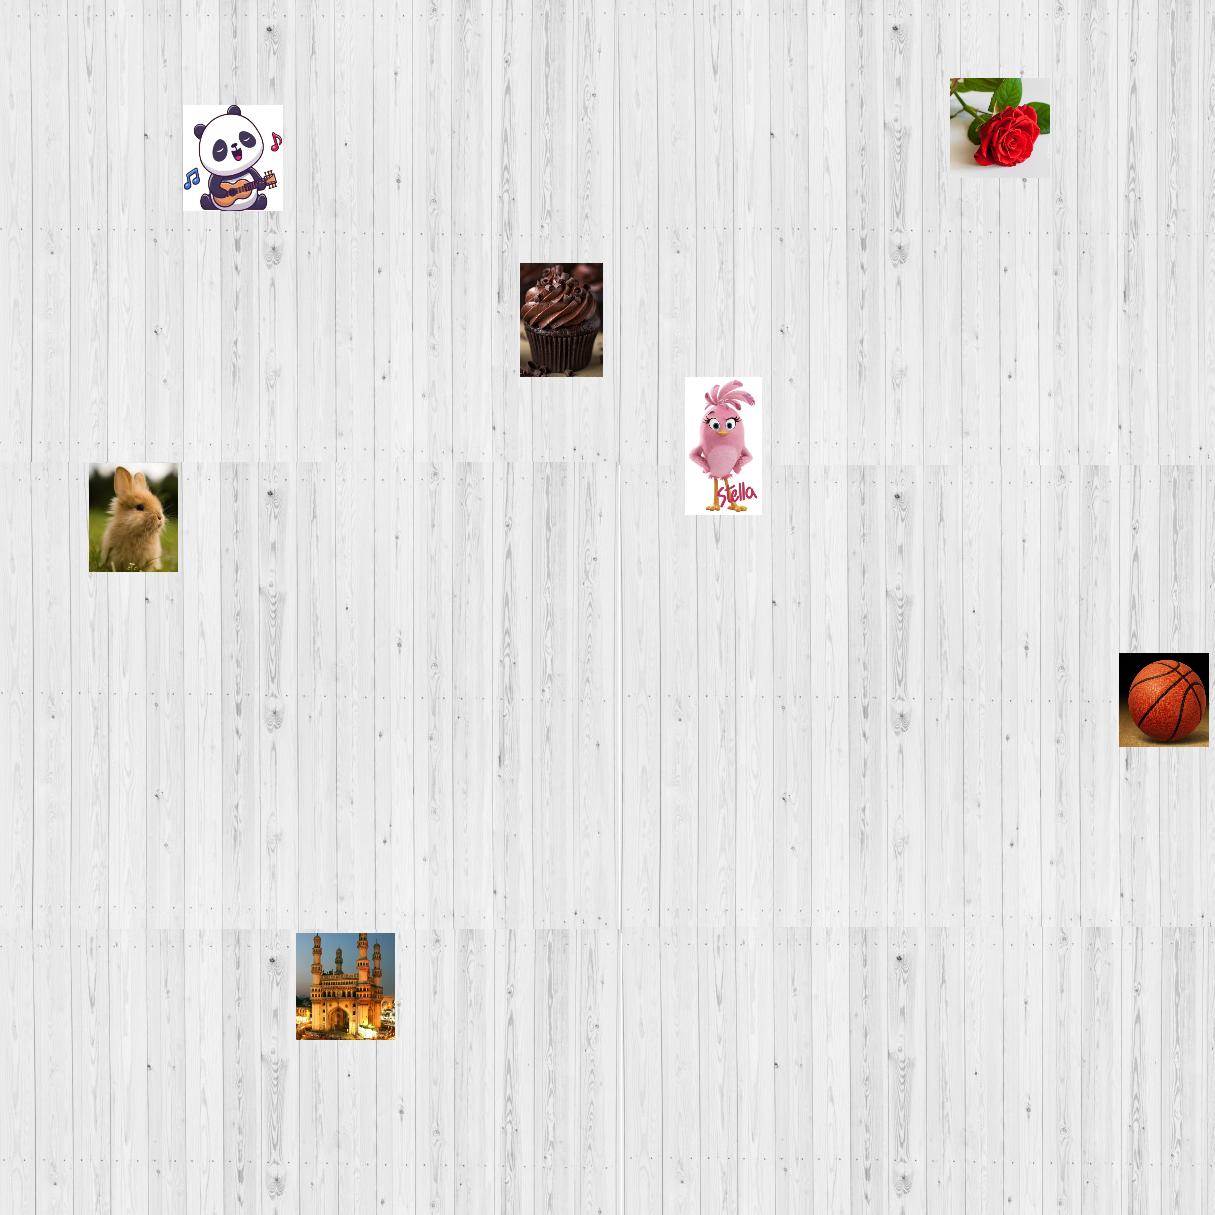
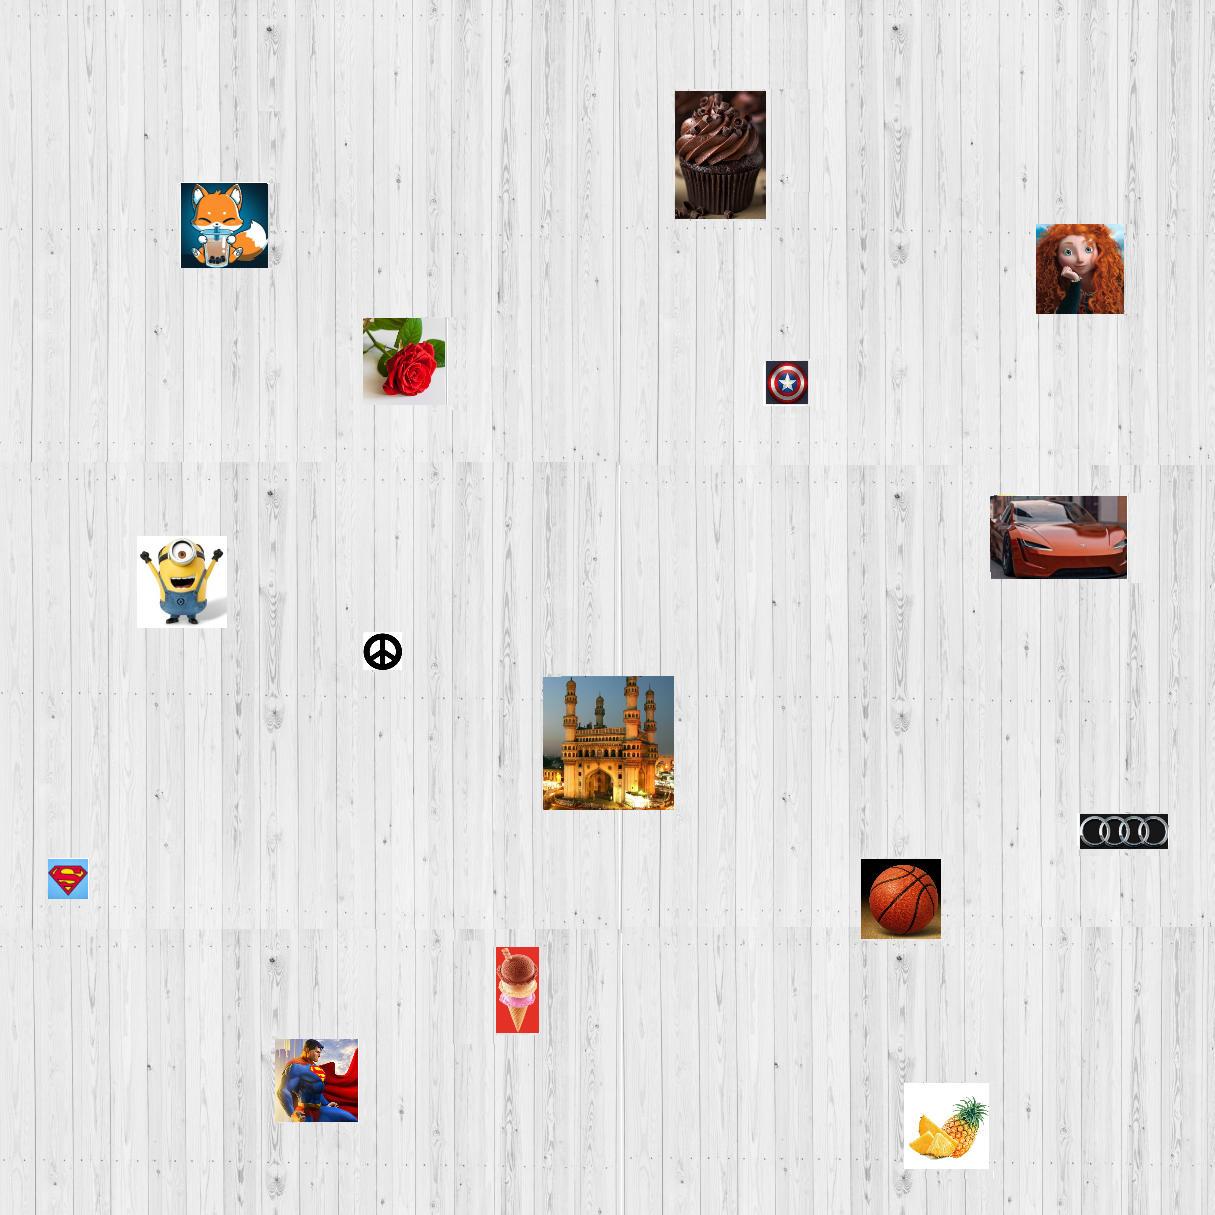
Final Game code
Final Game code.

diff --git a/javascript/game.js b/javascript/game.js
@@ -1,33 +1,33 @@
 
 function action(clicked_id){
-  var array_name1 = ["MHcvU3LLse","RAyZ9efDeF","BKrNt5cNnT","Fg4L4NCtWp","xNYfsk4mMH","jAiZiThtxT","Ppadbl3PQF","5lMwJLUjSe","rTdx52ENF4","5NNedUsR2J","UkfcVBmqqV","MXQgxJADXX","qMQaJdPkCO","RCui6qrFJV","HFCxKMvwYw","AkWbPQuXhf","MYZC9GqJ5W","6kzOuC9io4","TVdrILiBRE","a2nah2ZTfQ","NjgKucCGkx","rXF2MflLZM","JPJeu2PKGO","sRCeNTc6fI"];
-  var array_name2 = ["2TLp2jJcXt","GHidcIuFNE","2YcMENmRch","byEObvxT6F","qEj29d92e5","L2ROWr2JdD","PL4euuRVIB","QEoKDw2gXS","zz4PAi3l4I","aPRtKZNW22","rDyVVOBg25","SKAV95g2eV","VrKe2gLHFh","pdzS5QasW9","XQ5A9bVRAL","GAAlvIt2u2","l9Dg3sdjP3","KPZCyfRgxV","c5IhB3a2Jm","rjLIzvtwsd","5YvuNldweV","lUCkFhq2u6","bCytPkgNWl","CAzA2c9f2O"];
-  var array_name3 = ["L4gzYTWXpW","COInVs5Ga2","uYkiwAVHiW","Umu6GvW2ZK","9jwr3alYdl","DKRoajn4RN","IEjSYOa5th","9dTOkeBM25","UHDuUqhnLU","AvtlLELxIl","E2yC55SgEM","6tv9FdsIFg","5EbwufnHnw","2jDCwtJBS2","MBu2kwW2YW","2d95lsy2sR","z2doSNgnCF","24YoUx2HPI","z2gaaaCjDZ","5SJx2cuHdM","YcWEL52eyI","MjKvQDEoKR"];
-  var array_name4 = ["p6I2wD5yA5","R22e4puqWX","jBXbnrOv5H","LvXmRK2SQY","yVYOvlm9ed","vL99aaWcRp","f2liClesiY","o22bmnnj5h","vi53jZkIXu","9mJNHsPwUm","mgfJMdCJ25","h9BL59JXms","zO22hjrNJL","tSMS9Qroor","XPHSWnZBga","5QRxnlhWek","ouaCZn2vFC","HNLMNNoF4V","9rOvIFyOQ9","xl222S3tzM","BxpXV9UJkP","62yVtgXKyt","yCLLncKn4f","hlfPDafq9G"];
-  var array_name5 = ["2E2O0vVdgt","MpPy0tGef9","gsqK0wyj5e","ylTw0WgLIg","2OQA0MagWT","UZwG0cwM2k","bK6B0COkum","coDe0D9cNH","pnak0w3Qbq","jHf60Pxqc9","Fvtr0DLtHm","z4X50ZWfhW","Lj3M0tNmHn","6xsp0tWdOK","iGYn0g9lbt","djZi0kA9Qy","5yoF0ZEog9","eURY0uoQ6D","Jx6R0v2rBS","6bh20f35eG","9P5B0ghQaI","E2ZF0Ktel5","EkSc0bIJpQ","HhWw0VQQaL"];
+  var array_name1 = ["YeQxdTHE1N","a7WIaHbSyy","MHcvU3LLse","RAyZ9efDeF","BKrNt5cNnT","Fg4L4NCtWp","xNYfsk4mMH","jAiZiThtxT","Ppadbl3PQF","5lMwJLUjSe","rTdx52ENF4","5NNedUsR2J","UkfcVBmqqV","MXQgxJADXX","qMQaJdPkCO","RCui6qrFJV","HFCxKMvwYw","AkWbPQuXhf","MYZC9GqJ5W","6kzOuC9io4","TVdrILiBRE","a2nah2ZTfQ","NjgKucCGkx","rXF2MflLZM","JPJeu2PKGO","sRCeNTc6fI"];
+  var array_name2 = ["xCT1BfiHvv","2TLp2jJcXt","GHidcIuFNE","2YcMENmRch","byEObvxT6F","qEj29d92e5","L2ROWr2JdD","PL4euuRVIB","QEoKDw2gXS","zz4PAi3l4I","aPRtKZNW22","rDyVVOBg25","SKAV95g2eV","VrKe2gLHFh","pdzS5QasW9","GAAlvIt2u2","l9Dg3sdjP3","KPZCyfRgxV","c5IhB3a2Jm","rjLIzvtwsd","5YvuNldweV","lUCkFhq2u6","bCytPkgNWl","CAzA2c9f2O"];
+  var array_name3 = ["ykR7Agzr95","L4gzYTWXpW","COInVs5Ga2","uYkiwAVHiW","uSykDkT75q","BX2iq8iQil","Umu6GvW2ZK","9jwr3alYdl","DKRoajn4RN","IEjSYOa5th","9dTOkeBM25","UHDuUqhnLU","AvtlLELxIl","E2yC55SgEM","6tv9FdsIFg","2jDCwtJBS2","MBu2kwW2YW","2d95lsy2sR","z2doSNgnCF","24YoUx2HPI","z2gaaaCjDZ","5SJx2cuHdM","YcWEL52eyI","MjKvQDEoKR"];
+  var array_name4 = ["p6I2wD5yA5","R22e4puqWX","jBXbnrOv5H","LvXmRK2SQY","yVYOvlm9ed","vL99aaWcRp","f2liClesiY","o22bmnnj5h","vi53jZkIXu","9mJNHsPwUm","mgfJMdCJ25","h9BL59JXms","XPHSWnZBga","5QRxnlhWek","ouaCZn2vFC","HNLMNNoF4V","9rOvIFyOQ9","xl222S3tzM","BxpXV9UJkP","62yVtgXKyt","yCLLncKn4f","hlfPDafq9G"];
+  var array_name5 = ["2E2O0vVdgt","MpPy0tGef9","gsqK0wyj5e","UZwG0cwM2k","bK6B0COkum","coDe0D9cNH","pnak0w3Qbq","jHf60Pxqc9","Fvtr0DLtHm","z4X50ZWfhW","Lj3M0tNmHn","6xsp0tWdOK","iGYn0g9lbt","djZi0kA9Qy","5yoF0ZEog9","eURY0uoQ6D","Jx6R0v2rBS","6bh20f35eG","9P5B0ghQaI","E2ZF0Ktel5","EkSc0bIJpQ","HhWw0VQQaL"];
   var array_name6 = ["xUG22vR2n6","At22vUzBTI","aI52kut25i","XdN2fww2tZ","tpc2o26Fbj","ss229ONlAW","2Am25n5mNM","I3W2Ds9kis","9262POSzKs","k5u2Qjm4rX","M9t26U9IFk","z3223Jm2KT","CJa2DrJmdI","Pyw2JO3ZMP","9px2WfeZvF","9q22LTMp2F","RQ92PHVlZs","TrK29PiM6C","rtF2ERB2t9","3l52gGAjZo","cnV2XOuOj9","sgr2BMu2nK","2Hf2Jdwz2q","qep2exRgO9"];
   var array_name7 = ["FdJE5o4IsH","h3IJHY42hv","62TfuZ4xsK","uKzK5s4oWr","5HEeeG4PEB","shrw9D4S33","s6KoKB4EZ9","KHkQYs4yPu","PRI2rd4Tig","Fg5pzZ49gK","sG5Mzq4awC","rdb2Vc425q","dHVDwK4c2X","tH6Vey43Gc","2uQeHw4Y2p","Z6suQx43U2","CcIvEn4uMG","vbqLCP4n5M","wx9I324ldW","AZGzzR4kxs","HWEdyC4QyJ","x9qiFx4P6K","WmDqX24rp4","Eg3zGz4I5X"];
   var array_name8 = ["Mimq5Jd29Y","q9rnJxcC9n","vr5CCH9692","lncO55Rp92","OntK4Dez9C","OwjIfbrf9j","35jhLml69g","IDizNMeF9D","6HQOIW5p93","J55Ttl4E9q","ubmnmwG29H","eddqpCbc9J","b2zMmTc29D","c9Ji9H2A9u","rERhnatB9f","Vz2dZere9N","B9x2wBtM9y","IST9Sh4t9b","4korrmKp9u","GIdHFXZd9f","VerroZG29B","FQmxu96K9C","2Wzm2rw29e"];
   var array_name9 = ["Fz36isCqNR","Zn56uzqnUM","RXF6pLdmmq","5W26l2fA4J","VhS655un9c","p9n6aAK2Ok","qAz62V45Ea","Esp6mWVGs5","df26sGurQx","Mo26ZnKjU5","3yn6VYrDFd","5sM6syh6n4","3p26KA92zO","reT6SZVv9h","N2G6PnDLow","3oT6NSG4E3","9s369WHgIy","DJ26IPgbVg","Q2P62vJrhp","xpu6wUw2j3","uV26E22hOt","Ink65uiaQg","Tee695cTvD","ZtL6mpG49i","aCk6H9if5v","hNl63N9aRI"];
-  var array_name10 = ["9adVT3U2iz","2WuHK3rUz9","xJWok39495","kQgYk3vaMZ","Wil4o3Rsfv","AxDsg3AqHG","LdnYL3L52l","MK52R3tCUM","bDuWt35Nmz","URSot3uA5A","gFtoe332Ye","H6KQH3dQzU","stLvI3kxGa","MQ9Kx3ezcH","ut9aP3K2HZ","g6aQ932dnZ","gkfqd3afOe","nhnXB3KJkg","vtthS3ZkR6","j3nAo3yW2X","oMZwu3cKci","XfHRW3ibI9","CdvZH3RGp6","YR4jh3D594"];
-  var array_name11 = ["29Nds25U34","69YN2RTTg5","N94K6us5aq","29LvXVO6vL","M9SfIYs2nX","a9XRD6y2l2","M99ok2vnEM","m9jlvs5U59","s9O9ntk66v","Z96HT6TkUz","m95q4H6heM","Y9UQIVeUY9","S92oy9Ui4D","299zLx2MBc","Q9cRCsbCv6","Y96UQZtqy2","r9qOqhpm2u","m9QLdCsQD2","D9Ok2DDPw3","S9xXkblyNY","f9vSBbqNMV","h93NKIZ2II","X9N2RBqu5f","o9ZRYdVLOM"];
-  var array_name12 = ["A43g2yTizJ","xJB92BN9rM","99Ja2523fF","s2iO2HaGlK","oPjV2U9Zby","wMam2wgq5n","n5wR2nEghE","5d2N2uzwZP","bu2B2Xg2QR","CyGN2EhMtw","PpMp2wA2Fl","2Zdh22U3zu","X26e2Er6Vt","kuS22oc3GE","q6xF2FRcSn","JHAH2Pdvd9","jMmx2td4Mi","WcyK25MJuv","IYc22kK9tG","2rTy2jVsTY","Dwg62xu55Z","gLaD2tpZes"];
+  var array_name10 = ["9adVT3U2iz","2WuHK3rUz9","xJWok39495","kQgYk3vaMZ","Wil4o3Rsfv","AxDsg3AqHG","LdnYL3L52l","MK52R3tCUM","bDuWt35Nmz","URSot3uA5A","gFtoe332Ye","H6KQH3dQzU","stLvI3kxGa","MQ9Kx3ezcH","ut9aP3K2HZ","g6aQ932dnZ","gkfqd3afOe","nhnXB3KJkg","vtthS3ZkR6","j3nAo3yW2X","oMZwu3cKci","Fp1Ym3LTxs","dfOVw3AM8u","XfHRW3ibI9","CdvZH3RGp6","YR4jh3D594"];
+  var array_name11 = ["29Nds25U34","69YN2RTTg5","N94K6us5aq","29LvXVO6vL","M9SfIYs2nX","a9XRD6y2l2","M99ok2vnEM","m9jlvs5U59","s9O9ntk66v","Z96HT6TkUz","m95q4H6heM","Y9UQIVeUY9","S92oy9Ui4D","299zLx2MBc","Q9cRCsbCv6","Y96UQZtqy2","r9qOqhpm2u","m9QLdCsQD2","D9Ok2DDPw3","S9xXkblyNY","f9vSBbqNMV","X9N2RBqu5f","o9ZRYdVLOM"];
+  var array_name12 = ["A43g2yTizJ","xJB92BN9rM","99Ja2523fF","s2iO2HaGlK","oPjV2U9Zby","wMam2wgq5n","n5wR2nEghE","5d2N2uzwZP","bu2B2Xg2QR","CyGN2EhMtw","PpMp2wA2Fl","2Zdh22U3zu","X26e2Er6Vt","kuS22oc3GE","q6xF2FRcSn","JHAH2Pdvd9","jMmx2td4Mi","WcyK25MJuv","IYc22kK9tG","Dwg62xu55Z","gLaD2tpZes"];
   var array_name13 = ["4FANMh59bM","EbM32c54FW","jnx5OY5J2M","HjXBnc5dhq","n3Ge4r5EvD","NHsxDO5WrV","n5bXd55NgC","x39tzL5y2H","YYRnt25M6Z","2nCe3O5dm3","ecnia2595l","vk2OdA5wzv","lS9JXa5Avt","U2RP9G5jIA","mYuZwT5FyV","rZdJNH5uFK","Jkjxoi5TaH","2E6IFE5z24","EuQZ9m59u9","nBUZ2y5fCC","Cp6tP55qaB","xAgsYn52M5","Lb5H2D5rsj","ZuFp2k5KP6"];
-  var array_name14 = ["MeJ3h25Fz3","a493l9jwHR","QJb3c4snBY","6zW3Z9fCZv","qcw3p2eOWq","2343Q6HWWh","MT33kVvO2k","5Hn3CMr9sE","Y993AmChTb","A9N3tsTWJf","sc93qggK2M","ISs3c3lu9F","aw23ZqXvar","UVT3KUf9Po","Bgd33URFyW","64F3mCnN6y","E2D3c2U5to","r2x3B5TLEV","TH43fmhNhU","dXK3QzntFe","5X935ww29H","Wz232FBngS","Ub23Rb5OtV","zq9333JLCK","mvt3lVWw4V","U5x3pP4BgN"];
+  var array_name14 = ["MeJ3h25Fz3","a493l9jwHR","QJb3c4snBY","6zW3Z9fCZv","qcw3p2eOWq","2343Q6HWWh","MT33kVvO2k","Y993AmChTb","A9N3tsTWJf","sc93qggK2M","ISs3c3lu9F","aw23ZqXvar","UVT3KUf9Po","Bgd33URFyW","64F3mCnN6y","E2D3c2U5to","r2x3B5TLEV","TH43fmhNhU","dXK3QzntFe","5X935ww29H","Wz232FBngS","Ub23Rb5OtV","zq9333JLCK","mvt3lVWw4V","U5x3pP4BgN"];
   var array_name15 = ["TqTHEoHP4V","2xV5xH2q4Q","qxyhdRcl4N","5f3zqjCp4V","NVBQ53mX4Z","m2FNVTB44L","Jymhx93r4v","5XPoKhp34Y","jSyRyU5i4w","fKg2gh2J4Q","boj5Kmvt4T","xscLFavt4B","BX6joqPU4K","LL6FIktR4r","QHXKsQXo4h","voS34jV24N","BD9w2F5z4k","L3hbXg6B4Q","vp3Bu5hS4P","fdfZ35ZP4P","2NzwmNUe4I","auhUlrcO4I","Ey5yvwFL4w"];
   var array_name16 = ["5262QMgJMR","tL6pVNp2p3","uW6hvlJYTS","5q6v45qXLt","LW6Zees2rh","Ln6rntePsf","jX6iqgwu2m","OO6cz2BBCh","4P6VECmhU9","CV64lcmpl2","dF6nmd9Nok","Dj6aqda3Lf","6g6iVK422K","F96kW3dXsf","vT6kcFcclu","vV6ZgCJUsE","Ad6s9aw9YM","bv6OFV9292","626xoXpy9f","hS6obgAIEX","Mc6L5Kwlsy","2I6GuI29Xe","3C65TQehHC"];
   var array_name17 = ["SBd590F9vR","GoQsg092iN","sHriE0Pize","pOrQb0LSUn","bNm5U0t36I","KLuAI0lVo2","eZs650hrHT","USKHN0SYMd","ueSCJ0iCUK","u5D9w06BGG","ghoDv0c2we","22ALB0XjIS","b5ZyZ06atd","atqDP0nics","OF9550I6Ze","WpeJW02ggA","ophkI0x9NM","bhqwA0uodl","qRX5b04uoS","hwfN60htYa","H2tkY0ol3q","fGJBj0PJia","pvTTo02DkC"];
-  var array_name18 = ["pJbmktE222","QGZaK4BF2P","WV2rDnH62t","r3QOXMNo23","Td5Nq4ts2q","U6LyGudx2t","UvmS43z225","9Nawvcue22","NPbYYs6K2y","kqY4emzm2f","bAsKZ2H22J","gX2cS23A2Z","V65cop5i2x","x226jFOF2l","C3yGJKG52k","DX2xmCrK2l","eZz4C2Oe2o","xptxeK2I2W","FSt9fqDN2c","VQ4MZHMg2P","lldKoXAa23","eAcg5xNo29","45hqx6v32d","o2LJDodN22","XzCoTAU222","f9iF2E2m2u"];
+  var array_name18 = ["pJbmktE222","QGZaK4BF2P","WV2rDnH62t","r3QOXMNo23","Td5Nq4ts2q","U6LyGudx2t","UvmS43z225","9Nawvcue22","NPbYYs6K2y","kqY4emzm2f","bAsKZ2H22J","gX2cS23A2Z","V65cop5i2x","x226jFOF2l","C3yGJKG52k","DX2xmCrK2l","eZz4C2Oe2o","xptxeK2I2W","FSt9fqDN2c","VQ4MZHMg2P","lldKoXAa23","eAcg5xNo29","45hqx6v32d","f9iF2E2m2u"];
   var array_name19 = ["s0AdyERPrR","K0c2ecoZX5","20L9xShDJu","h0IEW5PjoW","W05JqOtEx4","R0Xe6JWusC","N0nE2O2EmS","V0LE5Fmjsb","Z0QYkUa2Mm","y03tV6mWKN","j0n5GKqyXs","20lA4JSu5M","o0Rz24yEgd","B0Rw4RpRQg","60ffgSP5OE","50ZGyUg9W6","b0iYcHC4XH","K03ZGUkTiQ","n0JBCvr2oB","j02N22249k","G0L95iLRoC","w04wZro9Fc","P0Kepj6dIj"];
   var array_name20 = ["qx22sJoGZ2","p222QC2tsi","QM22pzgAcK","K622uctR9z","s222KWHrKY","Js225WOmDv","2U225ZvsN5","Aj222CoI5m","JY22Z42XN6","sX22kRMkGW","9P22XCnfVb","j522e2I2rZ","XS22XkH9bC","qg22k2xLwT","HN22NI3H53","AO22gzEqsT","LD22u9RPgF","od22pRl4mi","Pi226ROyjl","vy22SB5Nfu","9R22Bcm9EZ","kN22d3cYW5","vM22mP5TB2","MM226hpoih"];
-  var array_name21 = ["g5Za643HDZ","oCrJe4gtaY","a2tmH4xz9o","y4e4Q42XsF","5OKEh44H3z","bsJJ34kLHY","XfBLd49i5M","3QrGe4FhyZ","vgrkj4CsZ9","yHLSe4AGIU","5em9l4fVTs","2FyKU4JVSl","u92tH492uX","Ao9Gn44C2w","95hJG4bpl4","v3TpO4P49b","rfEMU4kzKp","YbhFt4QHjj","IjXlj49ooo","iiyGh45JeI","3vjaz42Lfl","RHfwC4GS2y","sXOvi4sQXj","2QuGL49uzf","S2ret4eRMd","rBVc449LO6"];
-  var array_name22 = ["Q2KvA6x99S","z65HgbU99C","2vvnqjA99l","VJcUiaC99G","9igwg3Q99o","udTnUZ499T","uSf9ZFm99e","GCeEvEH99g","ZRB2z9v99j","B96ZDYH99L","GV5B29A99B","Gxi5bQ699C","lds2CCC99G","SbMO9jQ99Q","ctPBz9v99G","2VVsqb999L","YckjkTM992","sWlMD2k99L","ezciAhy99M","jQRrCgP99E","tiOFPLO99v","5Oq9xnw99C","uD2v9s999F","vK9Ga2Z99U","dsqEyJ299C","UJTIFZR99I"];
+  var array_name21 = ["g5Za643HDZ","oCrJe4gtaY","a2tmH4xz9o","y4e4Q42XsF","5OKEh44H3z","bsJJ34kLHY","XfBLd49i5M","3QrGe4FhyZ","vgrkj4CsZ9","yHLSe4AGIU","2FyKU4JVSl","u92tH492uX","Ao9Gn44C2w","95hJG4bpl4","v3TpO4P49b","rfEMU4kzKp","YbhFt4QHjj","IjXlj49ooo","iiyGh45JeI","3vjaz42Lfl","RHfwC4GS2y","sXOvi4sQXj","2QuGL49uzf","S2ret4eRMd","rBVc449LO6"];
+  var array_name22 = ["Q2KvA6x99S","z65HgbU99C","2vvnqjA99l","VJcUiaC99G","9igwg3Q99o","udTnUZ499T","uSf9ZFm99e","GCeEvEH99g","ZRB2z9v99j","B96ZDYH99L","Gxi5bQ699C","lds2CCC99G","SbMO9jQ99Q","ctPBz9v99G","2VVsqb999L","YckjkTM992","sWlMD2k99L","ezciAhy99M","jQRrCgP99E","tiOFPLO99v","5Oq9xnw99C","uD2v9s999F","vK9Ga2Z99U","dsqEyJ299C","UJTIFZR99I"];
   var array_name23 = ["d2hjdQg3n0","F6F3MCBrJ0","oNEAOalBp0","nnhifHpJp0","sUCWB6JoR0","9gObWcaTS0","xb2IOup420","h3Tpa9iGy0","FB29JzACt0","n5qzVHSCa0","693JxWUpu0","EtwQosado0","GQNEsXVdJ0","5weuAZ3hp0","KHgNRl2RB0","TmgFrXT9x0","9fJF5m56G0","v25kGp3fv0","DuiTVNmUB0","tdOXkorWq0","CCjtl5oE50","OHW2i2IY30","35aqj2WBt0","9nmFIuJNj0"];
   var array_name24 = ["Kj35pBe6vP","SB3kdre6uK","a43mUvW6w4","2f3Fhr96Do","vi3SKVD6ZA","uu33vfO6DQ","uo3i22x69E","gH35Cef6dW","cz35tW96sB","5p3dGmN6TR","TV3vFit65L","Lz3GKNi6vr","FK3Fydd6qy","as3qcNo6Ki","xX3xl2z6gT","Z63Emyz6HJ","Ty3gjkJ6Qy","ej30POm6Y5","Q536mVX6zQ","Wv3SwLc6tR","dM3FcNV6cP","UC3vSf269l"];
   var array_name25 = ["4Y0Ur2k39p","460D5n635E","M50GEEl3Au","Xi0iKMz3Xq","Vb0X25R3Ri","220gfCU3W2","XP0OVas3g5","Yy0mV9I3Jj","y30YsXE3ct","rP0XdAd3DW","Tr0RpCi32q","Fk0AD9L3z4","Cm02LPy3qq","BF0xLCf32w","Fz0QzVV3sh","9i0BDje35t","4d0SQQP3ZF","qT0XAqb3Rd","yJ0uneg3DP","s209sxE3lP","cz0kjAa3oF","CB0ZcxL3D3","Hz0eHuR3y3","ds0Iuc53jW"];
   var array_name26 = ["pWbViJyh62","wrlLyS5E62","AO9wgIzS62","ZG6BJNTT62","M2kK5VOY62","an5LZvmC62","biQkiJFO62","U3BltZG562","J2AUIMyX62","mZk3LYPa62","hCo5t9aQ62","k3NfMiCV62","9625JKtu62","TCXHWwCA62","gHjUTkan62","J9mMh5WL62","4obBcxfA62","65pztDbP62","gELbSgvT62","HECjIhIq62","jwuzj2MF62","t4AtMPTa62","2PwbssYW62","cBxQ2gLF62","BdEXsACf62","Oeu2FO9S62"];
 
-  /*if(array_name1.includes(clicked_id)){
+  if(array_name1.includes(clicked_id)){
       reset(clicked_id);
   } else if(array_name2.includes(clicked_id)){
       reset(clicked_id);
@@ -37,7 +37,7 @@ function action(clicked_id){
       reset(clicked_id);
   } else if(array_name5.includes(clicked_id)){
       reset(clicked_id);
-  } else*/ if(array_name6.includes(clicked_id)){
+  } else if(array_name6.includes(clicked_id)){
       reset(clicked_id);
   } else if(array_name7.includes(clicked_id)){
       reset(clicked_id);

diff --git a/index.html b/index.html
@@ -16,7 +16,7 @@
   <h2>Image Sweeper</h2>
   <h4>Description</h4>
   <p>
-    Random Objects were hidden under a field of tiles. Guess the right tiles to clear and uncover the images beneath.
+    Random Objects were hidden under a field of tiles. Guess the right tiles to uncover the images beneath.
     <br/>
     <h5>How Game Works:</h5>
     <ul>
@@ -25,19 +25,18 @@
     </ul>
     <h5>Rules to Complete the Game:</h5>
     <ul>
-      <li>Uncover all the hidden images. Total Tweleve Images were hidden.</li>
-      <li>Take screenshot of the game field with all uncovered images and upload to google photos using "Upload" button.</li>
+      <li>Uncover all the hidden images. Total 15 Images were hidden, with different shapes and sizes.</li>
+      <li>Take screenshot of the game field with all uncovered images and mail to pavan.k.jalla@chase.com</li>
+      <li>Name the screenshot with first letters of all the member names in the group.</li>
   </ul>
-  <h5>Note:</h5>
+  <h5>Tip:</h5>
     <ul>
-    <li>You might need to sign in with your google account to upload the screenshot.</li>
-    <li>"Sign in" to Google Photos could be restricted in Client machine, please try to open the game in your local.</li>
-    <li>Name the screenshot with a member name in the group.</li>
-    <li>If Game field does not fit in a single screenshot. You can take max two screenshots. Tip: You can use browser zoom out.</li>
+    <li>If Game field does not fit in a single screenshot. You can take max two screenshots. You can use browser zoom out.</li>
+    <li>This game can be acceessed outside of client machine as well. Incase if your client machine is slow.</li>
     </ul>
     <br/>
     <a href="imagesweeper.html" target="_blank"> <button type="button" class="btn btn-outline-dark"><strong>Launch Game .</strong></button> </a>
-    <a href="https://photos.app.goo.gl/qAEBDdV49ZG5fHxm8" target="_blank"> <button type="button" class="btn btn-outline-info"><strong>Upload Game Result .</strong></button> </a>
+
   </br/>
   </p>
 
